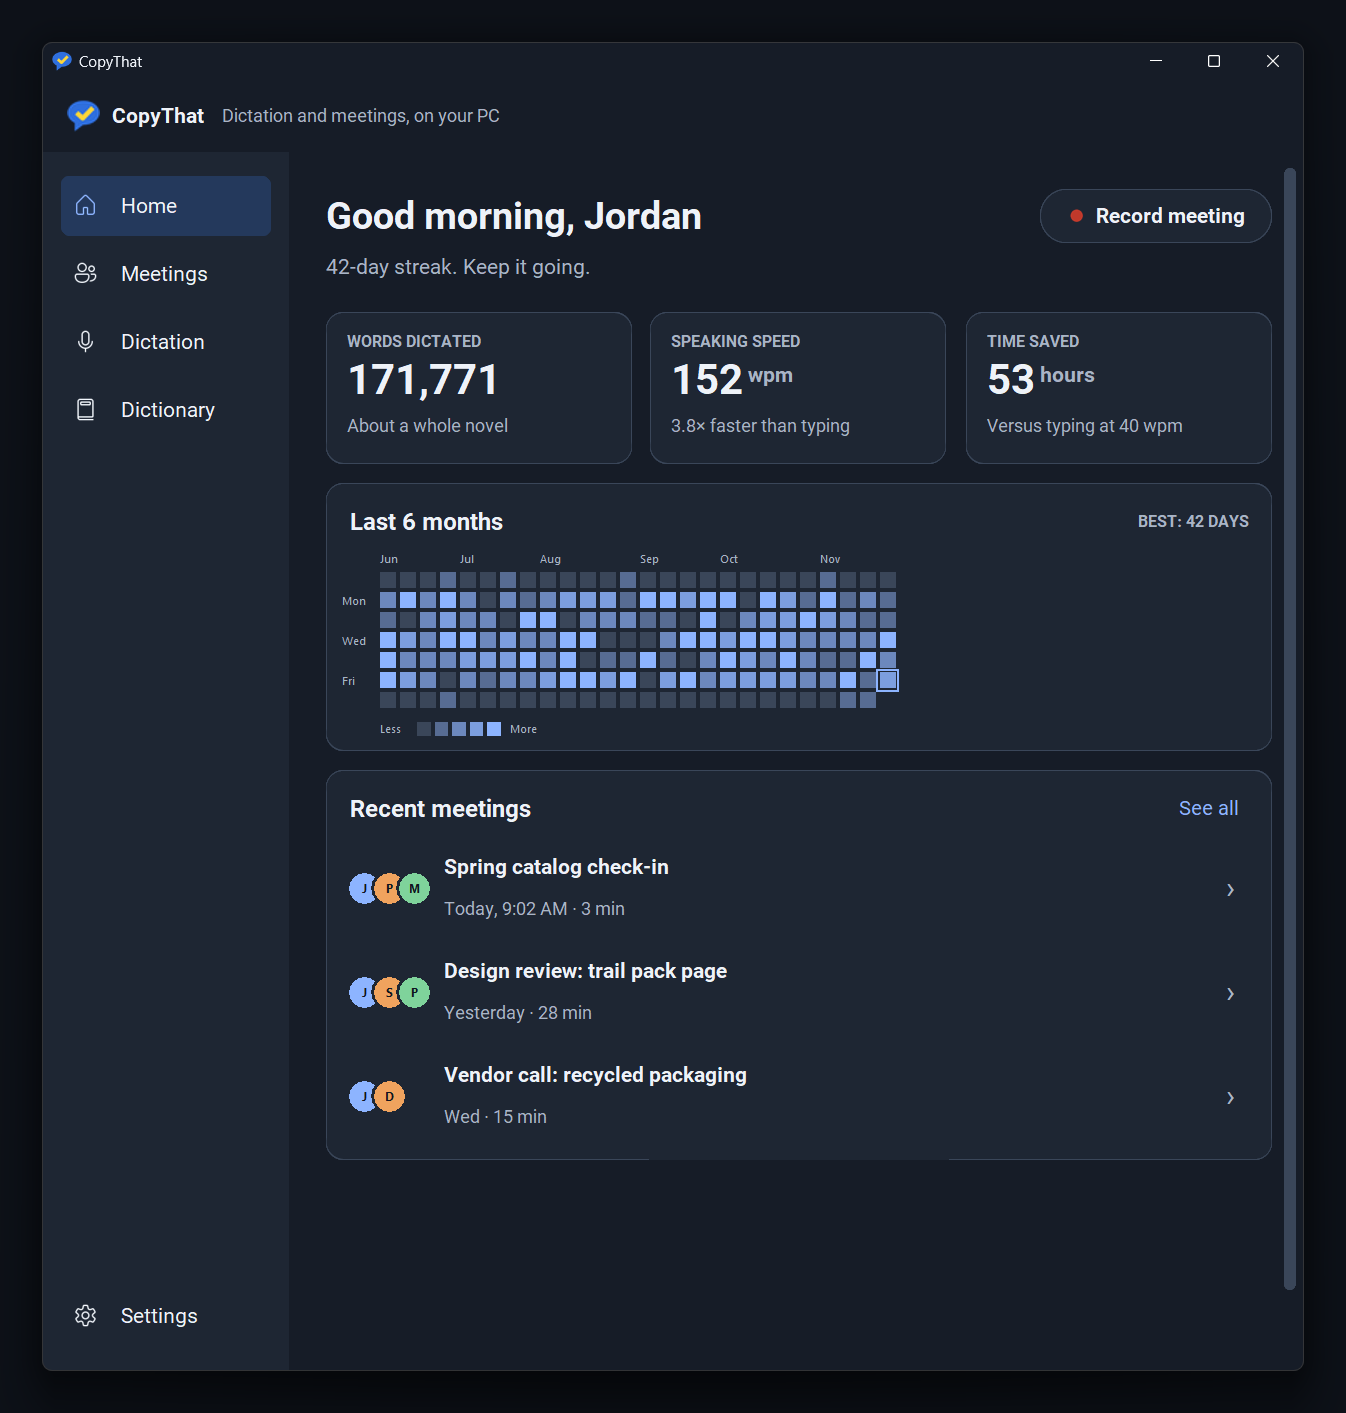
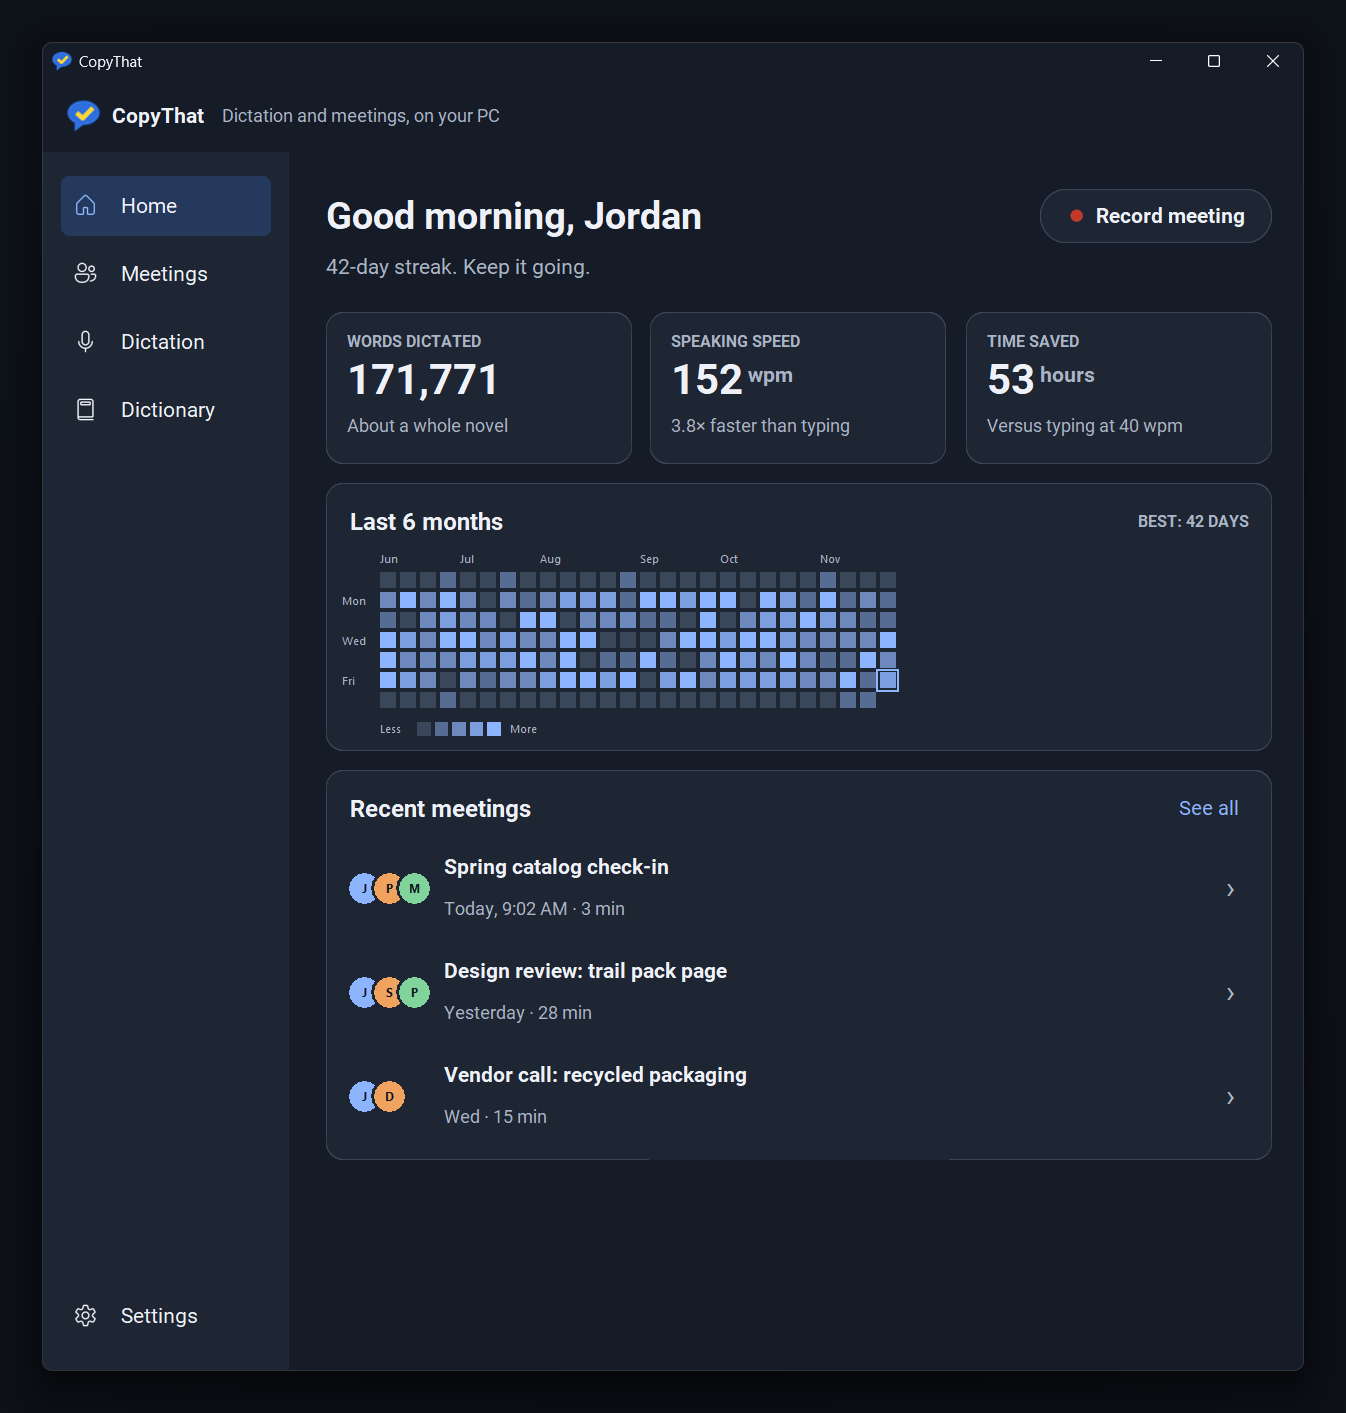
README: dark screenshots in their sections, and catch up with the UI refresh
Home sits under the intro, the bubble in Use, the tray panel with a new Tray
panel paragraph, and a meeting's page in Meetings. The separate Screenshots
section, the light set and the Meetings list shot are gone; the script now
takes the dark set by default.

Text updates: Home and its local stats, the tray panel, Record meeting and
Mute mic in their new places, Home in the sidebar, the Highlight color setting,
and the Dictation page in place of History.

Changed region(s): [[0.9361, 0.1246, 0.9673, 0.903]]

diff --git a/scripts/readme_screenshots.py b/scripts/readme_screenshots.py
@@ -1,14 +1,15 @@
 """Take the README screenshots from the real windows, filled with made-up data.
 
-    python scripts/readme_screenshots.py            # light and dark
-    python scripts/readme_screenshots.py --theme dark
+    python scripts/readme_screenshots.py              # dark, as the README uses
+    python scripts/readme_screenshots.py --theme light
+    python scripts/readme_screenshots.py --theme both
 
 Each theme runs in its own process with a throwaway data folder (COPYTHAT_DATA_DIR),
 so your own history, meetings and stats are never read or shown. The people, company
 and meetings below are invented. Windows open briefly on screen while they are
 captured; the pointer moves to a corner of the screen and back so nothing shows hover.
 
-Writes docs/screenshots/{home,meetings,meeting,pill,tray}-{light,dark}.png.
+Writes docs/screenshots/{home,meeting,pill,tray}-<theme>.png.
 Needs a desktop session, so it isn't part of the tests.
 """
 import argparse
@@ -26,7 +27,6 @@ from pathlib import Path
 ROOT = Path(__file__).resolve().parents[1]
 OUT = ROOT / "docs" / "screenshots"
 THEMES = ("light", "dark")
-SHOTS = ("home", "meetings", "meeting", "pill", "tray")
 
 MY_NAME = "Jordan"
 BACKDROP = {"light": "#DDE3EB", "dark": "#0D1118"}  # Behind each window, so no desktop shows
@@ -293,10 +293,6 @@ def capture(mode, out):
         studio.settle()
         studio.shoot(out / f"home-{mode}.png", main._win)
 
-        main.show("Meetings")
-        studio.settle()
-        studio.shoot(out / f"meetings-{mode}.png", main._win)
-
         main.show_meeting(folders[0])
         studio.settle()
         page = main._meetings_page
@@ -370,7 +366,7 @@ def pill_scene(root, mode, OverlayWindow, theme):
 
 def main():
     parser = argparse.ArgumentParser(description=__doc__.split("\n")[0])
-    parser.add_argument("--theme", choices=("both",) + THEMES, default="both")
+    parser.add_argument("--theme", choices=("both",) + THEMES, default="dark")
     parser.add_argument("--out", type=Path, default=OUT)
     parser.add_argument("--capture", choices=THEMES, help=argparse.SUPPRESS)  # One theme, in this process
     args = parser.parse_args()

diff --git a/README.md b/README.md
@@ -4,32 +4,15 @@
 
 A local Windows dictation app. Dictate into text fields in browsers, email, chat, documents, editors, and other desktop apps, with no destination-specific integration required. It also records meetings in any meeting app and transcribes who said what, all on your PC ([Meetings](#meetings)).
 
+<img src="docs/screenshots/home-dark.png" alt="The Home page: a greeting, words dictated, speaking speed, time saved, a six-month streak heatmap and recent meetings" width="600">
+
+<sub>Screenshots use made-up people, meetings and numbers.</sub>
+
 Speech recognition uses OpenVINO. Parakeet runs entirely on the Intel GPU, which measured faster than placing its encoder on the NPU; Whisper models still prefer the NPU. Optional Qwen3 cleanup also runs on the GPU in the same process. Runtime uses local model files; a model downloads only when you click Download.
 
 On first launch, a welcome window offers the recommended pair: Parakeet for speech (2.5 GB) and Qwen3 4B for Polish (2.3 GB). One click downloads both from Hugging Face, Parakeet first. Dictation starts as soon as Parakeet finishes, and Polish turns on when Qwen finishes. Every model downloads a pinned revision, the build that was tested.
 
 Developed and tested on Windows 11 with an Intel GPU and NPU. On a PC without an Intel GPU, CopyThat runs on the CPU. One contributor's tests on a fast desktop CPU found speech recognition quick, and Polish slower on long takes ([#13](https://github.com/scottheffield/copy-that/issues/13)). NVIDIA and AMD GPUs aren't used ([#26](https://github.com/scottheffield/copy-that/issues/26)). Other setups are untested.
-
-## Screenshots
-
-The people, meetings and numbers in these are made up. `scripts/readme_screenshots.py` takes them again from the current build.
-
-Dictating: the bubble opens under the cursor and shows words as you speak.
-
-<picture><source media="(prefers-color-scheme: dark)" srcset="docs/screenshots/pill-dark.png"><img src="docs/screenshots/pill-light.png" alt="The recording bubble under the cursor in a draft, showing the words heard so far" width="560"></picture>
-
-Home: your words, speaking speed and streak, and recent meetings.
-
-<picture><source media="(prefers-color-scheme: dark)" srcset="docs/screenshots/home-dark.png"><img src="docs/screenshots/home-light.png" alt="The Home page: a greeting, words dictated, speaking speed, time saved, a six-month streak heatmap and recent meetings" width="560"></picture>
-
-Meetings, and one meeting's transcript with who said what and playback.
-
-<picture><source media="(prefers-color-scheme: dark)" srcset="docs/screenshots/meetings-dark.png"><img src="docs/screenshots/meetings-light.png" alt="The Meetings page: meetings grouped by day with search" width="420"></picture>
-<picture><source media="(prefers-color-scheme: dark)" srcset="docs/screenshots/meeting-dark.png"><img src="docs/screenshots/meeting-light.png" alt="A meeting's transcript with named speakers, the line being played highlighted, and playback controls" width="420"></picture>
-
-The tray panel: record a meeting, check your numbers, and rename or open recent meetings without the main window.
-
-<picture><source media="(prefers-color-scheme: dark)" srcset="docs/screenshots/tray-dark.png"><img src="docs/screenshots/tray-light.png" alt="The tray panel: Record meeting, words, wpm and streak, and the last three meetings" width="320"></picture>
 
 ## Install
 
@@ -38,7 +21,7 @@ The tray panel: record a meeting, check your numbers, and rename or open recent 
 3. Open CopyThat from the Start menu. The welcome window downloads the speech and Polish models, about 4.8 GB in total.
 4. Click into any text field, hold Ctrl+Win, speak, and let go.
 
-You don't need Python or PowerShell. Setup offers an unchecked **Start with Windows** option, and you can change it later from the tray menu.
+You don't need Python or PowerShell. Setup offers an unchecked **Start with Windows** option, and you can change it later from the tray icon's right-click menu.
 
 If CopyThat is already running, launching it again exits quietly; use the existing tray icon.
 
@@ -46,7 +29,9 @@ Application files default to `%LOCALAPPDATA%\Programs\CopyThat`. Config, models,
 
 ## Use
 
-The app lives in the system tray. The floating pill is hidden while idle and shows recording, processing, and brief results.
+The app lives in the system tray. The floating pill is hidden while idle. While you dictate it opens as a bubble under the text cursor, with a timer, a level meter, and your words as you speak, then shows processing and brief results.
+
+<img src="docs/screenshots/pill-dark.png" alt="The recording bubble under the text cursor in a draft, showing a timer, a level meter and the words heard so far" width="560">
 
 | Gesture | Action |
 | --- | --- |
@@ -59,11 +44,19 @@ The app lives in the system tray. The floating pill is hidden while idle and sho
 
 Up to three unfinished takes can overlap. Processing and pasting remain ordered. Each pasted take ends with a space so the next take starts a new word. Existing trailing whitespace is preserved and auto-submit omits the added space. History keeps the transcript without the added separator. Recordings stop at 5 minutes by default, with a low double pluck 15 seconds before the limit. Audio cues: a pluck once the microphone is actually delivering audio, a lower pluck on release, and a rising two-note pluck when text is pasted. Silence detection rejects takes without enough detected speech before recognition.
 
+**Tray panel.** Left-click the tray icon for a small panel above it. It has **Record meeting** (with **Mute mic** while one records), your words, speaking speed and streak, and your last three meetings, which you can rename in place or open. Escape or a click elsewhere closes it. Right-click the icon for the menu.
+
+<img src="docs/screenshots/tray-dark.png" alt="The tray panel: Record meeting, words, wpm and streak, and the last three meetings with Folder and Open" width="320">
+
+**Home.** **Open CopyThat** opens the main window on Home. Home shows the words you've dictated, your speaking speed, the time saved compared with typing at 40 wpm, your streak of days with dictation, a six-month heatmap, and your recent meetings. A weekend without dictation doesn't break a streak. The stats are numbers only, kept in `stats.json` on this PC, never the text. Turn them off or reset them in Settings > General.
+
 ## Meetings
 
-Click **Record meeting** at the top of the Meetings page, or in the tray menu, to record a call, and **Stop** when it ends. CopyThat records two tracks: your microphone, labeled "Me", and whatever the laptop plays, labeled "Others". It works with any meeting app. Nothing joins the call, and nothing is uploaded. The output track records the Windows default speaker, so set your meeting app's speaker to Default.
+Click **Record meeting** on Home, the Meetings page, or the tray panel, or choose it in the tray menu, to record a call, and **Stop** when it ends. CopyThat records two tracks: your microphone, labeled "Me", and whatever the laptop plays, labeled "Others". It works with any meeting app. Nothing joins the call, and nothing is uploaded. The output track records the Windows default speaker, so set your meeting app's speaker to Default.
 
-Most of the meeting is transcribed during the call, so the transcript is written a few seconds after Stop. Dictation keeps working during a meeting and always goes first. Your dictated words stay out of the meeting transcript; turn that off with **Leave dictation out of meeting transcripts** in Settings. The mic button on the meeting chip (or **Mute my mic in the meeting** in the tray menu) mutes your side while the other side keeps recording. A mute longer than 5 seconds is marked in the transcript.
+Most of the meeting is transcribed during the call, so the transcript is written a few seconds after Stop. Dictation keeps working during a meeting and always goes first. Your dictated words stay out of the meeting transcript; turn that off with **Leave dictation out of meeting transcripts** in Settings. The mic button on the meeting chip, **Mute mic** in the tray panel, or **Mute my mic in the meeting** in the tray menu mutes your side while the other side keeps recording. A mute longer than 5 seconds is marked in the transcript.
+
+<img src="docs/screenshots/meeting-dark.png" alt="A meeting's page: named speakers in their own colors, the line being played highlighted, and the player" width="600">
 
 **Speakers.** After the transcript is written, CopyThat finds the different voices on the other side and labels them Speaker 1, Speaker 2, and so on, numbered by who speaks first. A voice with only a few words is merged into the speakers around it. When the laptop plays nothing for the whole recording, as in an in-person meeting, everyone is on the microphone track, labeled "Speaker", and the voices there are separated instead. On a long meeting this takes a few minutes, with progress on the meeting's page. Turn it off with **Label speakers in meeting transcripts** in Settings > Meetings.
 
@@ -87,7 +80,7 @@ Recording other people may require their consent, and the rules vary by place. F
 
 Right-click the tray icon and choose **Settings**, or click **Settings** at the bottom of the main window's sidebar:
 
-The sidebar holds **Meetings**, **Dictation**, and **Dictionary**, with **Settings** at the bottom. Settings has four tabs: **General**, **Models**, **Meetings**, and **Advanced**. In General, **Appearance** offers **System** (the default), **Light**, and **Dark**. Click **Apply changes** to save your choice. System follows the Windows app appearance while CopyThat is running; manual choices override it. Appearance changes do not reload the speech models. The recording pill keeps the same layout and controls in both themes. Routine status messages stay in the app instead of raising a Windows toast.
+The sidebar holds **Home**, **Meetings**, **Dictation**, and **Dictionary**, with **Settings** at the bottom. Settings has four tabs: **General**, **Models**, **Meetings**, and **Advanced**. In General, **Appearance** offers **System** (the default), **Light**, and **Dark**. **Highlight color** picks the accent: blue (the default), violet, teal, or amber. Click **Apply changes** to save your choice. System follows the Windows app appearance while CopyThat is running; manual choices override it. Appearance changes do not reload the speech models. The recording pill keeps the same layout and controls in both themes. Routine status messages stay in the app instead of raising a Windows toast.
 
 - **Microphone** chooses a particular input device or follows the Windows default. A selected microphone is remembered by its name and audio API. If it disappears, select another microphone.
 - **Speech recognition** and **Polish** (in Settings > Models) use the same model cards. Each shows Installed, a Download button with its size, or download progress with Cancel. Only installed models can be selected; click Apply to load one. The speech model and Polish model are independent. After you switch away from a model, CopyThat offers to delete it; installed models that aren't in use also have a Remove action.
@@ -100,7 +93,7 @@ The sidebar holds **Meetings**, **Dictation**, and **Dictionary**, with **Settin
 - **Press Enter after pasting** is optional and submits text wherever Enter normally submits it. It is off by default.
 - **Issue keys** are set in `config.json`, not Settings. With `"issue_keys": ["OPS"]`, saying "OPS twenty three" writes `OPS-23`. The list is empty by default.
 
-**History** retains the latest 20 completed results in memory and provides **Copy final** and **Copy raw**. If the destination window changes, or the destination is one of this app's own windows, automatic paste is skipped and the result remains here; press Shift+Alt+Z in the intended field to paste it. History resets when the app exits or its engine reloads.
+The **Dictation** page (**Dictation history** in the tray menu) keeps the latest 20 completed results in memory, with **Copy final** and **Copy raw** for each. If the destination window changes, or the destination is one of this app's own windows, automatic paste is skipped and the result remains here; press Shift+Alt+Z in the intended field to paste it. The list resets when the app exits or its engine reloads.
 
 The destination check identifies a window and process. Moving between fields within the same window cannot be detected. Pasting into an app running as administrator is not supported. Clipboard preservation currently saves text only, so copying an image or file before dictating can lose that clipboard content. A newer user copy is left alone.
 
@@ -241,6 +234,8 @@ Replay opt-in take logs after adding checked `reference.txt` and, optionally, `e
 ```
 
 Synthetic smoke results validate execution, not accuracy on your voice.
+
+`scripts/readme_screenshots.py` retakes the README screenshots from the real windows, filled with made-up data in a throwaway data folder. Windows open on screen while it runs, so leave the mouse alone.
 
 ## Contributing and security
 
